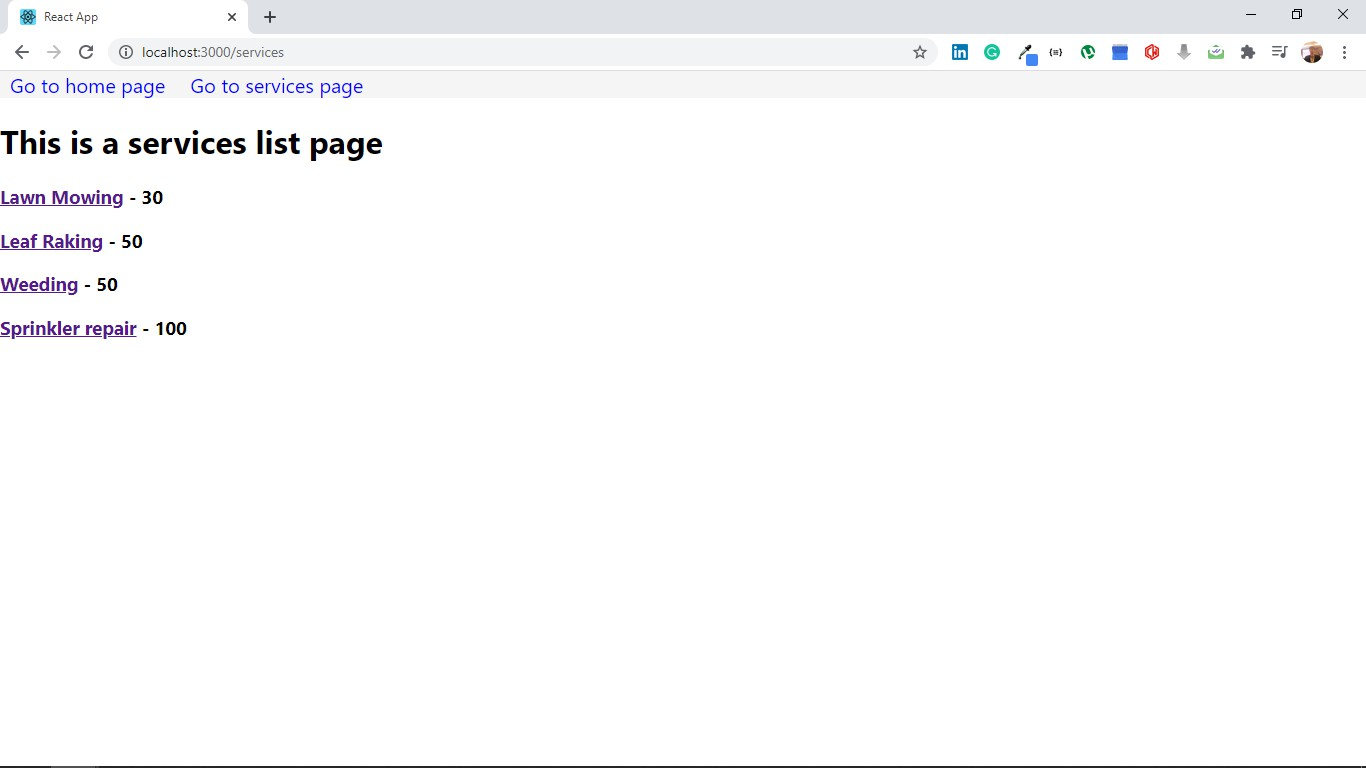
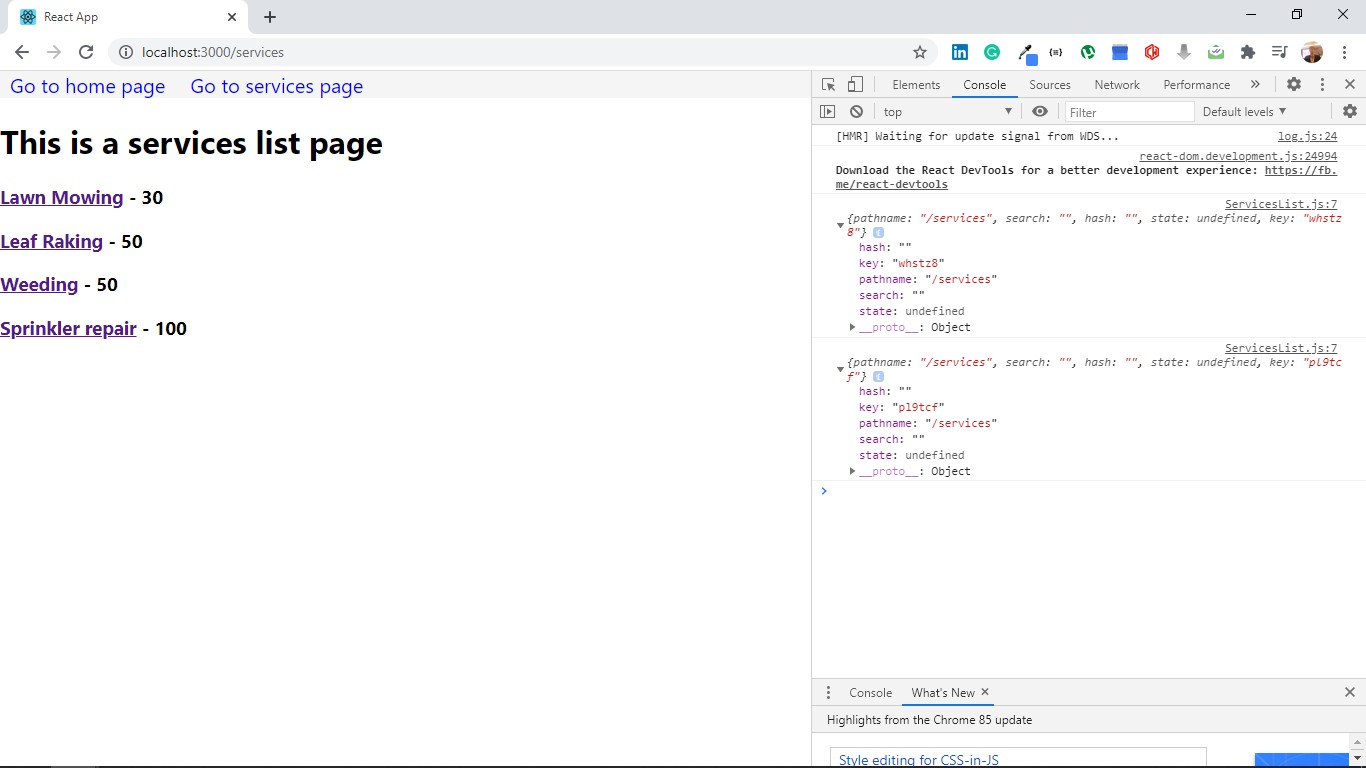
Module 6 - React Router/Course 12 - React Router useLocation https://scrimba.com/p/pMvMNS4/cgM9ybtG

diff --git a/src/Module 6 - React Router/Course 12 - React Router useLocation/Pages/Services/ServiceDetail.js b/src/Module 6 - React Router/Course 12 - React Router useLocation/Pages/Services/ServiceDetail.js
@@ -1,0 +1,29 @@
+import React from 'react'
+import {useParams, useHistory} from 'react-router-dom'
+import serviceData from './servicesData'
+
+function ServiceDetail(){
+    const {serviceId} = useParams()
+    const history = useHistory()
+
+    const thisService = serviceData.find((service) => {
+        return(
+            service._id === serviceId
+        )
+    })
+
+    function handleOnClick(){
+        history.push("/services")
+    }
+
+    return(
+        <div>
+            <h1>This is a service detail page</h1>
+            <h3>Name: {thisService.name} - Price: ${thisService.price}</h3>
+            <p>Description: {thisService.description}</p>
+            <button onClick={handleOnClick}>Go back to all services</button>
+        </div>
+    )
+}
+
+export default ServiceDetail

diff --git a/src/Module 6 - React Router/Course 12 - React Router useLocation/App.js b/src/Module 6 - React Router/Course 12 - React Router useLocation/App.js
@@ -1,0 +1,30 @@
+import React from 'react'
+import Header from './Components/Header'
+import {Switch, Route} from 'react-router-dom'
+import Home from './Pages/Home'
+import ServiceList from './Pages/Services/ServicesList'
+import ServiceDetail from './Pages/Services/ServiceDetail'
+
+function App(){
+    return(
+        <div>
+            <Header/>
+
+            <Switch>
+                <Route exact path="/">
+                    <Home/>
+                </Route>
+
+                <Route exact path="/services">
+                    <ServiceList/>
+                </Route>
+
+                <Route path="/services/:serviceId">
+                    <ServiceDetail/>
+                </Route>
+            </Switch>
+        </div>
+    )
+}
+
+export default App

diff --git a/src/Module 6 - React Router/Course 12 - React Router useLocation/Pages/Services/servicesData.js b/src/Module 6 - React Router/Course 12 - React Router useLocation/Pages/Services/servicesData.js
@@ -1,0 +1,26 @@
+export default [
+    {
+        "name": "Lawn Mowing",
+        "price": 30,
+        "_id": "1",
+        "description": "Have a carpet-like lawn without any work."
+    },
+    {
+        "name": "Leaf Raking",
+        "price": 50,
+        "_id": "2",
+        "description": "Remove those pesky dead tree parts from your property."
+    },
+    {
+        "name": "Weeding",
+        "price": 50,
+        "_id": "3",
+        "description": "Don't let the invaders ruin your yard."
+    },
+    {
+        "name": "Sprinkler repair",
+        "price": 100,
+        "_id": "4",
+        "description": "Keep your irrigation system top-notch."
+    }
+]

diff --git a/src/Module 6 - React Router/Course 12 - React Router useLocation/Pages/Services/ServicesList.js b/src/Module 6 - React Router/Course 12 - React Router useLocation/Pages/Services/ServicesList.js
@@ -1,0 +1,25 @@
+import React from 'react'
+import servicesData from './servicesData'
+import {Link, useLocation} from 'react-router-dom'
+
+function ServicesList(){
+    const location = useLocation()
+    console.log(location)
+    
+    const services = servicesData.map((service) => {
+        return(
+            <h3 key={service._id}>
+                <Link to={`/services/${service._id}`}>{service.name}</Link> - {service.price}
+            </h3>
+        )
+    })
+
+    return(
+        <div>
+            <h1>This is a services list page</h1>
+            {services}
+        </div>
+    )
+}
+
+export default ServicesList

diff --git a/src/Module 6 - React Router/Course 12 - React Router useLocation/Styles.css b/src/Module 6 - React Router/Course 12 - React Router useLocation/Styles.css
@@ -1,0 +1,40 @@
+body {
+    margin: 0;
+    padding: 0;
+}
+
+header {
+    background-color: whitesmoke;
+}
+
+header ul {
+    display: flex;
+    align-items: center;
+    margin-top: 0;
+    padding-left: 10px;
+}
+
+header ul li {
+    margin-right: 25px;
+    list-style: none;
+}
+
+header li a {
+    text-decoration: none;
+    font-size: 20px;
+}
+
+header li a:visited {
+    color: blue;
+}
+
+footer p {
+    position: absolute;
+    bottom: 0;
+    background-color: #333333;
+    margin: 0;
+    padding: 10px 0;
+    width: 100%;
+    color: whitesmoke;
+    font-size: 12px;
+}

diff --git a/src/Module 6 - React Router/Course 12 - React Router useLocation/Components/Header.js b/src/Module 6 - React Router/Course 12 - React Router useLocation/Components/Header.js
@@ -1,0 +1,20 @@
+import React from 'react'
+import {Link} from 'react-router-dom'
+
+function Header(){
+    return(
+        <header>
+            <ul>
+                <li>
+                    <Link to="/">Go to home page</Link>
+                </li>
+
+                <li>
+                    <Link to="/services">Go to services page</Link>
+                </li>
+            </ul>
+        </header>
+    )
+}
+
+export default Header

diff --git a/src/index.js b/src/index.js
@@ -3,7 +3,7 @@ import ReactDOM from 'react-dom';
 import './index.css';
 // import App from './App'; // default react App module
 // change this to import own react module
-import App from './Module 6 - React Router/Course 11 - React Router useHistory/Index'
+import App from './Module 6 - React Router/Course 12 - React Router useLocation/Index'
 import * as serviceWorker from './serviceWorker';
 
 ReactDOM.render(

diff --git a/src/Module 6 - React Router/Course 12 - React Router useLocation/Index.js b/src/Module 6 - React Router/Course 12 - React Router useLocation/Index.js
@@ -1,0 +1,14 @@
+import React from 'react'
+import {BrowserRouter as Router} from 'react-router-dom'
+import App from './App'
+import './Styles.css'
+
+function Index(){
+    return(
+        <Router>
+            <App/>
+        </Router>
+    )
+}
+
+export default Index

diff --git a/src/Module 6 - React Router/Course 12 - React Router useLocation/Pages/Home.js b/src/Module 6 - React Router/Course 12 - React Router useLocation/Pages/Home.js
@@ -1,0 +1,9 @@
+import React from 'react'
+
+function Home(){
+    return(
+        <h1>This is a home page</h1>
+    )
+}
+
+export default Home
